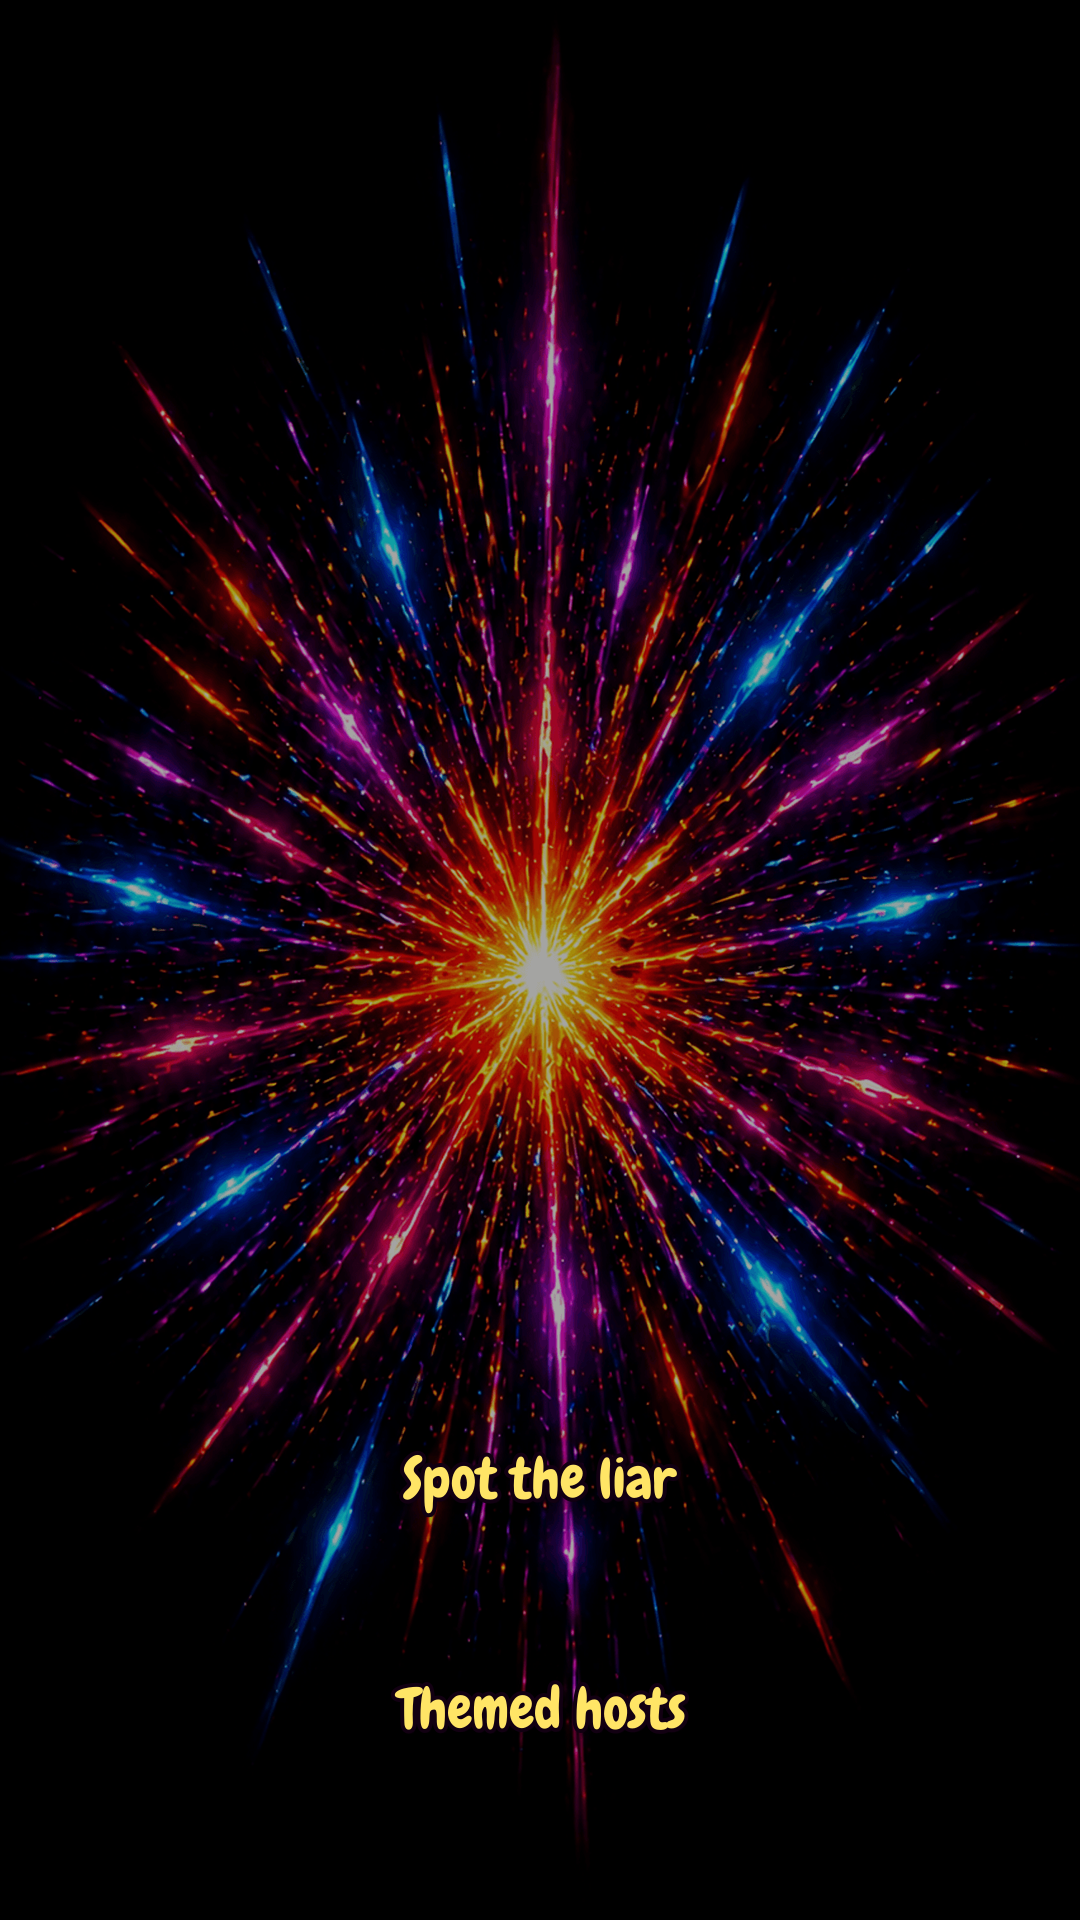
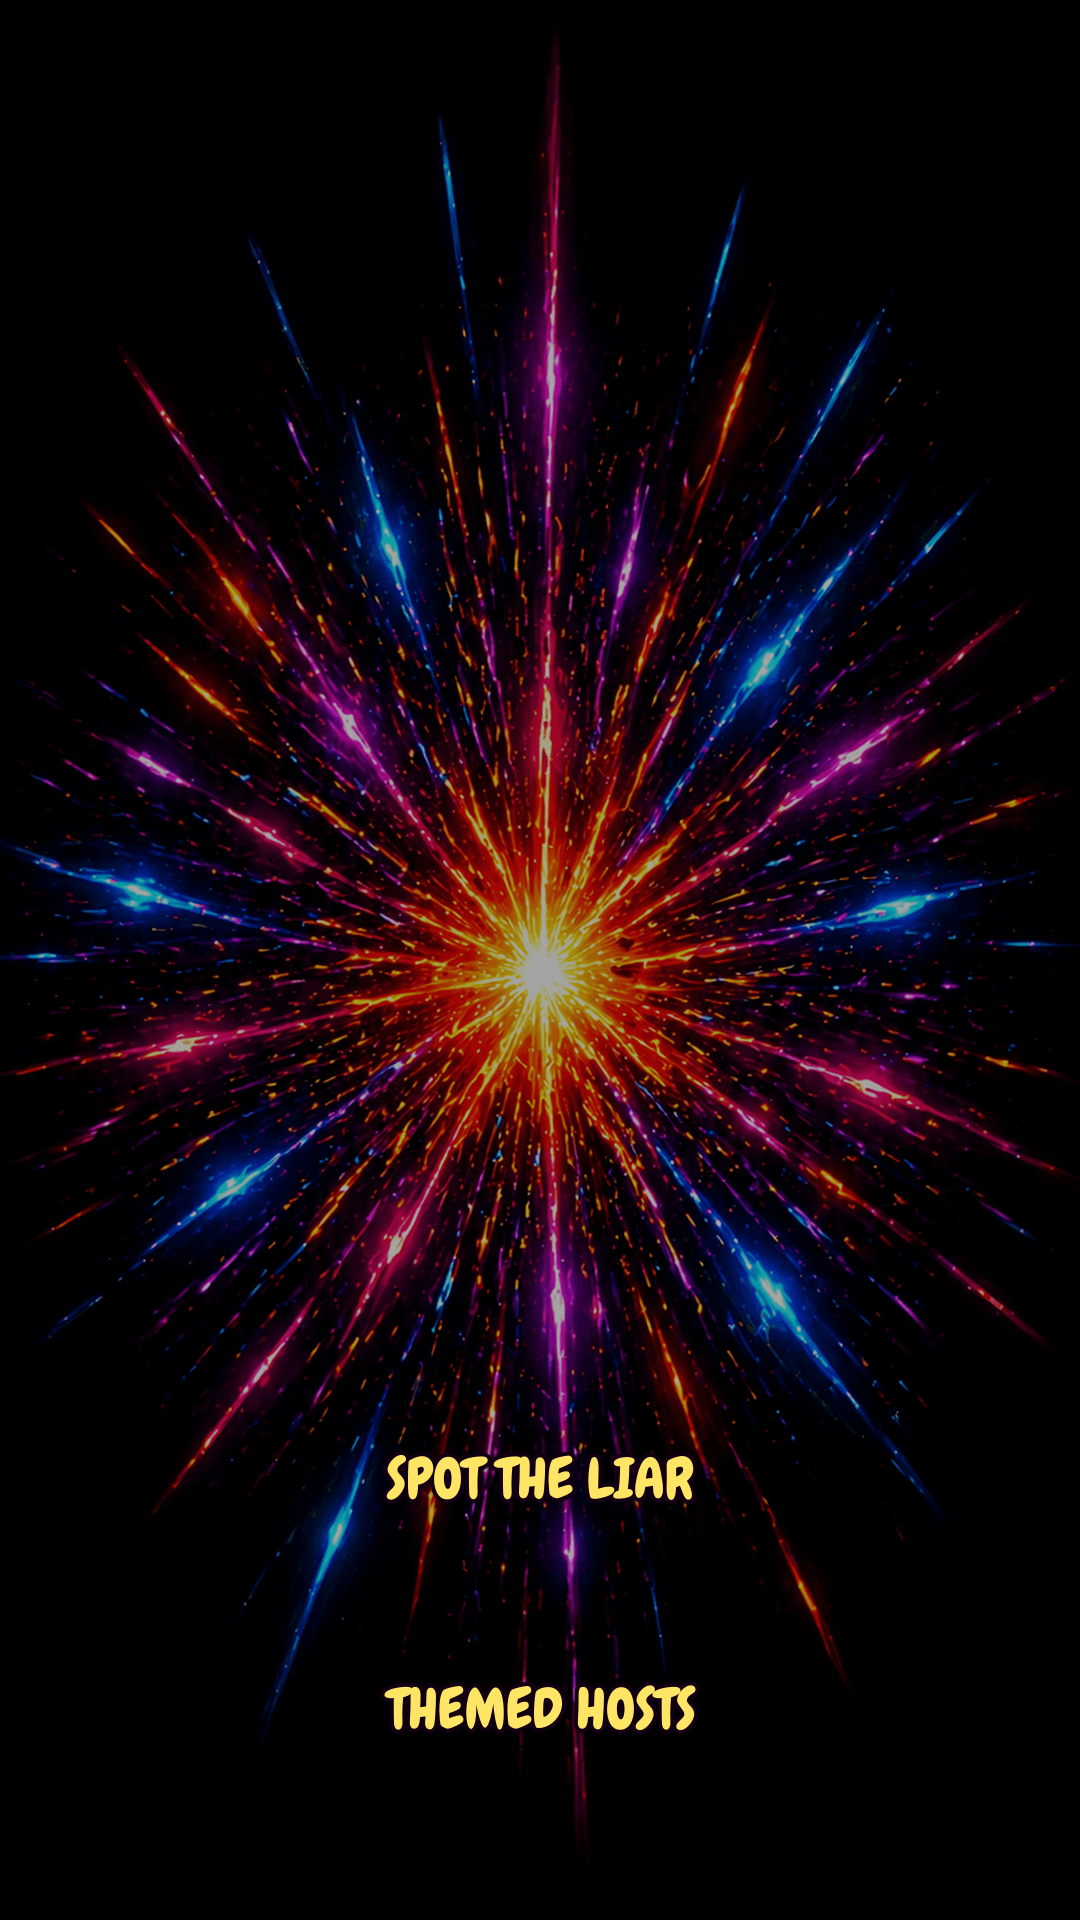
feat(ui): ALL CAPS display headings; preserve user content casing
Apply uppercase to PoF Display h1–h3 under .pof-root, chips, and Button;
add .pof-preserve-heading-case for names, codes, and product labels.
Uppercase Chewy text in Play Store generator and regenerate screenshots.

Changed region(s): [[0.3361, 0.75, 0.6417, 0.7812], [0.3667, 0.875, 0.6417, 0.9062]]

diff --git a/src/App.jsx b/src/App.jsx
@@ -5349,7 +5349,7 @@ function RevealScreen({
     <TopFrame theme={theme} allowScroll={false}>
       <div className="mx-auto flex h-[calc(100dvh-2rem)] w-full max-w-3xl flex-col">
         <div className="flex-1 px-3 py-3 sm:px-4 sm:py-4 text-center">
-          <h2 className="text-2xl sm:text-3xl font-black mt-1 text-yellow-300 leading-tight">
+          <h2 className="pof-preserve-heading-case text-2xl sm:text-3xl font-black mt-1 text-yellow-300 leading-tight">
             {onlineMode
               ? `Reveal for ${localPlayerName || player.name}`
               : `Pass the phone to ${player.name}`}
@@ -5997,7 +5997,7 @@ function VotingScreen({
                 key={voter.id}
                 className="rounded-[1.75rem] p-4 border-white/10 bg-black/20"
               >
-                <div className="font-black text-lg">{voter.name}</div>
+                <div className="pof-preserve-heading-case font-black text-lg">{voter.name}</div>
                 <div className="pof-ui-muted mt-1 text-sm font-medium">
                   Who do they vote for?
                 </div>
@@ -6388,7 +6388,7 @@ function ResultsScreen({
                           themeName={theme}
                         />
                         <div
-                          className={`text-lg sm:text-xl font-black leading-tight ${isLiar ? "text-[#ffc0ab]" : "text-white"}`}
+                          className={`pof-preserve-heading-case text-lg sm:text-xl font-black leading-tight ${isLiar ? "text-[#ffc0ab]" : "text-white"}`}
                         >
                           {player.name}
                         </div>
@@ -6439,7 +6439,7 @@ function ResultsScreen({
                             initialsClass="text-[0.5rem]"
                             themeName={theme}
                           />
-                          <div className="text-sm font-black uppercase text-white">
+                          <div className="pof-preserve-heading-case text-sm font-black text-white">
                             {player.name}
                           </div>
                         </div>
@@ -6477,7 +6477,7 @@ function ResultsScreen({
                         />
                         <div>
                           <div className="text-[0.7rem] sm:text-xs font-black uppercase tracking-[0.08em] text-white/55">{`Place ${index + 1}`}</div>
-                          <div className="mt-0.5 text-lg sm:text-xl font-black uppercase leading-tight text-white">
+                          <div className="pof-preserve-heading-case mt-0.5 text-lg sm:text-xl font-black leading-tight text-white">
                             {player.name}
                           </div>
                         </div>
@@ -6537,7 +6537,7 @@ function FinalScreen({ players, onRestart, line, theme, unlockToast = false }) {
           <div className="text-xs uppercase tracking-[0.3em] text-white/50">
             Match complete
           </div>
-          <h2 className="mt-3 text-5xl font-black text-yellow-300">
+          <h2 className="pof-preserve-heading-case mt-3 text-5xl font-black text-yellow-300">
             Winner: {winner?.name}
           </h2>
           <p className="mt-3 text-white/75">{line}</p>
@@ -6556,7 +6556,7 @@ function FinalScreen({ players, onRestart, line, theme, unlockToast = false }) {
                   />
                   <div className="text-sm text-white/55">{`Place ${index + 1}`}</div>
                 </div>
-                <div className="mt-2 text-2xl font-black">{player.name}</div>
+                <div className="pof-preserve-heading-case mt-2 text-2xl font-black">{player.name}</div>
                 <div className="mt-3 text-4xl font-black">{player.score}</div>
               </GlassPanel>
             ))}
@@ -10787,7 +10787,7 @@ export default function App() {
               <div className="text-xs uppercase tracking-[0.3em] text-white/55">
                 Joined Lobby
               </div>
-              <h2 className="text-4xl font-black mt-3 text-cyan-200">
+              <h2 className="pof-preserve-heading-case text-4xl font-black mt-3 text-cyan-200">
                 Code: {lobbyCode || "------"}
               </h2>
               <p className="text-white/75 mt-3">
@@ -10933,7 +10933,7 @@ export default function App() {
               className="shrink-0 px-2 pb-1 pt-[calc(var(--pof-safe-top)+2.75rem)] text-center sm:pt-[calc(var(--pof-safe-top)+2.25rem)]"
               data-testid="category-choice-header"
             >
-              <div className="pof-ui-muted text-xs font-semibold uppercase tracking-[0.3em] pl-14 sm:pl-0">
+              <div className="pof-preserve-heading-case pof-ui-muted text-xs font-semibold uppercase tracking-[0.3em] pl-14 sm:pl-0">
                 Round owner: {players[currentRoundOwnerIndex]?.name}
               </div>
               <h2 className="mt-3 text-4xl font-black text-yellow-300 [text-shadow:0_4px_16px_rgba(0,0,0,0.65)]">

diff --git a/src/pof-components.css b/src/pof-components.css
@@ -99,11 +99,14 @@
 .pof-field{width:100%;border-radius:1rem;background:rgba(6,2,22,.85);border:2px solid rgba(34,211,238,.75);box-shadow:0 0 10px rgba(34,211,238,.45),inset 0 0 8px rgba(34,211,238,.15);color:#fff;padding:.7rem .9rem;font-family:'PoF Display',sans-serif;font-size:1.2rem;letter-spacing:.06em;text-align:center;outline:none}
 .pof-field:focus{border-color:#ff2bd6;box-shadow:0 0 16px rgba(255,43,214,.75)}
 .pof-select{appearance:none;-webkit-appearance:none;cursor:pointer;padding-right:2.6rem;text-align:left}
-.pof-chip{font-family:'PoF Display',sans-serif;letter-spacing:.06em;font-size:1.15rem;border-radius:.9rem;padding:.55rem .8rem;color:#fff;background:rgba(6,2,22,.8);border:2px solid rgba(34,211,238,.55);box-shadow:0 0 8px rgba(34,211,238,.3)}
+.pof-chip{font-family:'PoF Display',sans-serif;letter-spacing:.06em;font-size:1.15rem;border-radius:.9rem;padding:.55rem .8rem;color:#fff;background:rgba(6,2,22,.8);border:2px solid rgba(34,211,238,.55);box-shadow:0 0 8px rgba(34,211,238,.3);text-transform:uppercase}
 .pof-sq{display:flex;align-items:center;justify-content:center;height:2.4rem;width:2.4rem;border-radius:.8rem;background:rgba(6,2,22,.85);border:2px solid rgba(255,43,214,.7);box-shadow:0 0 10px rgba(255,43,214,.45);color:#fff}
 .pof-sq.cyan{border-color:rgba(34,211,238,.75);box-shadow:0 0 10px rgba(34,211,238,.45)}
 .pof-root h1,.pof-root h2,.pof-root h3,.pof-root .font-black{font-family:'PoF Display',Inter,sans-serif;font-style:italic;letter-spacing:.05em}
+/* Display headings: all-caps (Jubba); use .pof-preserve-heading-case for mixed-case (e.g. player names). */
+.pof-root :where(h1,h2,h3):not(.pof-preserve-heading-case){text-transform:uppercase}
 .pof-heading{font-family:'PoF Display',Inter,sans-serif;font-style:italic;text-transform:uppercase;letter-spacing:.05em}
+.pof-heading.pof-preserve-heading-case{text-transform:none}
 /* PoF Display omits a clean “?” — use UI font for punctuation in headings */
 .pof-display-punct{font-family:Inter,system-ui,sans-serif;font-style:normal;font-weight:800;text-transform:none;letter-spacing:0}
 .content-pack-prompt-copy,.content-pack-prompt-copy .content-pack-prompt-body{text-align:center}

diff --git a/src/components/neon/NeonStoreScreen.jsx b/src/components/neon/NeonStoreScreen.jsx
@@ -103,7 +103,7 @@ function TierCard({
     >
       <div className="flex flex-col gap-3 sm:flex-row sm:items-start sm:justify-between">
         <div className="text-left">
-          <div className="pof-heading text-xl text-white">
+          <div className="pof-heading pof-preserve-heading-case text-xl text-white">
             {tier.name}
             {isCurrent ? (
               <span className="ml-2 text-xs font-normal tracking-widest text-yellow-200">
@@ -284,7 +284,7 @@ export default function NeonStoreScreen({
             title="Your access tier"
           >
             <Crown className="h-3.5 w-3.5 shrink-0 text-amber-200" />
-            <span className="truncate">{currentTierName}</span>
+            <span className="truncate pof-preserve-heading-case">{currentTierName}</span>
           </span>
         </header>
 
@@ -399,7 +399,9 @@ export default function NeonStoreScreen({
             onToggle={() => toggleSection('addons')}
           >
             <div className="rounded-2xl border border-white/10 bg-white/5 p-4 text-left">
-              <div className="pof-heading text-lg text-fuchsia-100">{ADDON_TWIST_TRUTH.name}</div>
+              <div className="pof-heading pof-preserve-heading-case text-lg text-fuchsia-100">
+                {ADDON_TWIST_TRUTH.name}
+              </div>
               <p className="pof-desc mt-2 text-sm text-white/75">{ADDON_TWIST_TRUTH.description}</p>
               <div className="mt-3 flex items-center justify-between gap-3">
                 <span className="pof-desc text-lg font-semibold text-yellow-300">

diff --git a/src/components/neon/NeonTwoTruthsInputScreen.jsx b/src/components/neon/NeonTwoTruthsInputScreen.jsx
@@ -73,14 +73,21 @@ export default function NeonTwoTruthsInputScreen({
             <NeonTimerBar secondsLeft={secondsLeft} totalSeconds={totalSeconds} />
           </div>
         )}
-        <h2
-          className="pof-heading text-center text-2xl text-yellow-300"
-          data-testid="twotruths-pass-heading"
-        >
-          {onlineMode && localPlayerId === player.id
-            ? 'Your turn'
-            : `Pass the phone to ${player.name}`}
-        </h2>
+        {onlineMode && localPlayerId === player.id ? (
+          <h2
+            className="pof-heading text-center text-2xl text-yellow-300"
+            data-testid="twotruths-pass-heading"
+          >
+            Your turn
+          </h2>
+        ) : (
+          <h2
+            className="pof-heading pof-preserve-heading-case text-center text-2xl text-yellow-300"
+            data-testid="twotruths-pass-heading"
+          >
+            Pass the phone to {player.name}
+          </h2>
+        )}
         {passLine && (
           <div className="pof-body rounded-2xl border border-fuchsia-200/35 bg-fuchsia-500/25 px-4 py-2 text-center text-sm font-semibold text-white/90">
             {passLine}

diff --git a/src/components/neon/NeonPlayerProfileScreen.jsx b/src/components/neon/NeonPlayerProfileScreen.jsx
@@ -31,7 +31,7 @@ const TABS = [
 function StatTile({ label, value }) {
   return (
     <div className="rounded-2xl border border-white/10 bg-black/30 p-3 text-center">
-      <div className="pof-heading text-2xl text-yellow-200">{value}</div>
+      <div className="pof-heading pof-preserve-heading-case text-2xl text-yellow-200">{value}</div>
       <div className="mt-1 text-[0.65rem] uppercase tracking-[0.18em] text-white/55">
         {label}
       </div>
@@ -215,7 +215,9 @@ export default function NeonPlayerProfileScreen({
                     className="rounded-2xl border border-white/10 bg-black/30 px-3 py-2 text-sm text-white/85"
                   >
                     <div className="flex flex-wrap items-center justify-between gap-2">
-                      <span className="pof-heading text-cyan-100">{game.themeName}</span>
+                      <span className="pof-heading pof-preserve-heading-case text-cyan-100">
+                        {game.themeName}
+                      </span>
                       <span className="text-xs text-white/50">
                         {new Date(game.dateIso).toLocaleString()}
                       </span>

diff --git a/src/components/neon/NeonStoreThemesPanel.jsx b/src/components/neon/NeonStoreThemesPanel.jsx
@@ -239,7 +239,9 @@ export default function NeonStoreThemesPanel({
               </span>
             ) : null}
             <div className="absolute bottom-0 left-0 right-0 p-3 text-left">
-              <div className="pof-heading text-2xl text-fuchsia-100">{item.title}</div>
+              <div className="pof-heading pof-preserve-heading-case text-2xl text-fuchsia-100">
+                {item.title}
+              </div>
               <p className="pof-desc mt-0.5 text-[0.7rem] text-white/75">{item.tagline}</p>
               {!item.isOwned && !disableDlcDemo ? (
                 <div className="mt-2">
@@ -326,7 +328,7 @@ export default function NeonStoreThemesPanel({
                 testId="store-theme-card-art"
               />
               <div className="p-2 text-left">
-                <div className="pof-heading text-[0.72rem] leading-tight text-white">
+                <div className="pof-heading pof-preserve-heading-case text-[0.72rem] leading-tight text-white">
                   {theme.name}
                 </div>
                 {theme.isMystery ? (

diff --git a/src/components/neon/NeonTwoTruthsRevealScreen.jsx b/src/components/neon/NeonTwoTruthsRevealScreen.jsx
@@ -46,7 +46,9 @@ export default function NeonTwoTruthsRevealScreen({
               data-testid={`twotruths-reveal-${player.id}`}
             >
               <div className="flex items-center justify-between gap-2">
-                <div className="pof-heading text-lg text-cyan-200">{player.name}</div>
+                <div className="pof-heading pof-preserve-heading-case text-lg text-cyan-200">
+                  {player.name}
+                </div>
                 <div className="pof-heading text-sm text-yellow-300">+{gain}</div>
               </div>
               {burnedOut ? (

diff --git a/src/components/neon/NeonTwoTruthsVotingScreen.jsx b/src/components/neon/NeonTwoTruthsVotingScreen.jsx
@@ -99,7 +99,9 @@ export default function NeonTwoTruthsVotingScreen({
                 <GlassPanel
                   className="mt-5 rounded-2xl border-white/10 bg-black/20 p-4"
                 >
-                  <div className="pof-heading text-lg text-cyan-200">{author.name}</div>
+                  <div className="pof-heading pof-preserve-heading-case text-lg text-cyan-200">
+                    {author.name}
+                  </div>
                   <div className="mt-3 grid gap-2">
                     {deck.items.map((text, index) => (
                       <button

diff --git a/src/components/OneWordRoundScreen.jsx b/src/components/OneWordRoundScreen.jsx
@@ -126,7 +126,9 @@ export function OneWordRoundPanel({
       <div className="text-xs font-bold uppercase tracking-[0.2em] text-cyan-200/90">
         One word round
       </div>
-      <h2 className="text-2xl font-black text-yellow-200">{headline}</h2>
+      <h2 className="pof-preserve-heading-case text-2xl font-black text-yellow-200">
+        {headline}
+      </h2>
       <p className="text-sm font-medium text-white/90">{hintLine}</p>
       {onlineMode && secondsLeft != null && (
         <div className="text-xs font-semibold text-cyan-100/80">

diff --git a/src/components/ui/button.jsx b/src/components/ui/button.jsx
@@ -1,5 +1,6 @@
 import React from 'react';
 export function Button({ className = '', variant = 'default', size, ...props }) {
-  const base = 'inline-flex items-center justify-center transition disabled:opacity-50 disabled:cursor-not-allowed';
+  const base =
+    'inline-flex items-center justify-center uppercase tracking-wide transition disabled:opacity-50 disabled:cursor-not-allowed';
   return <button className={`${base} ${className}`} {...props} />;
 }
